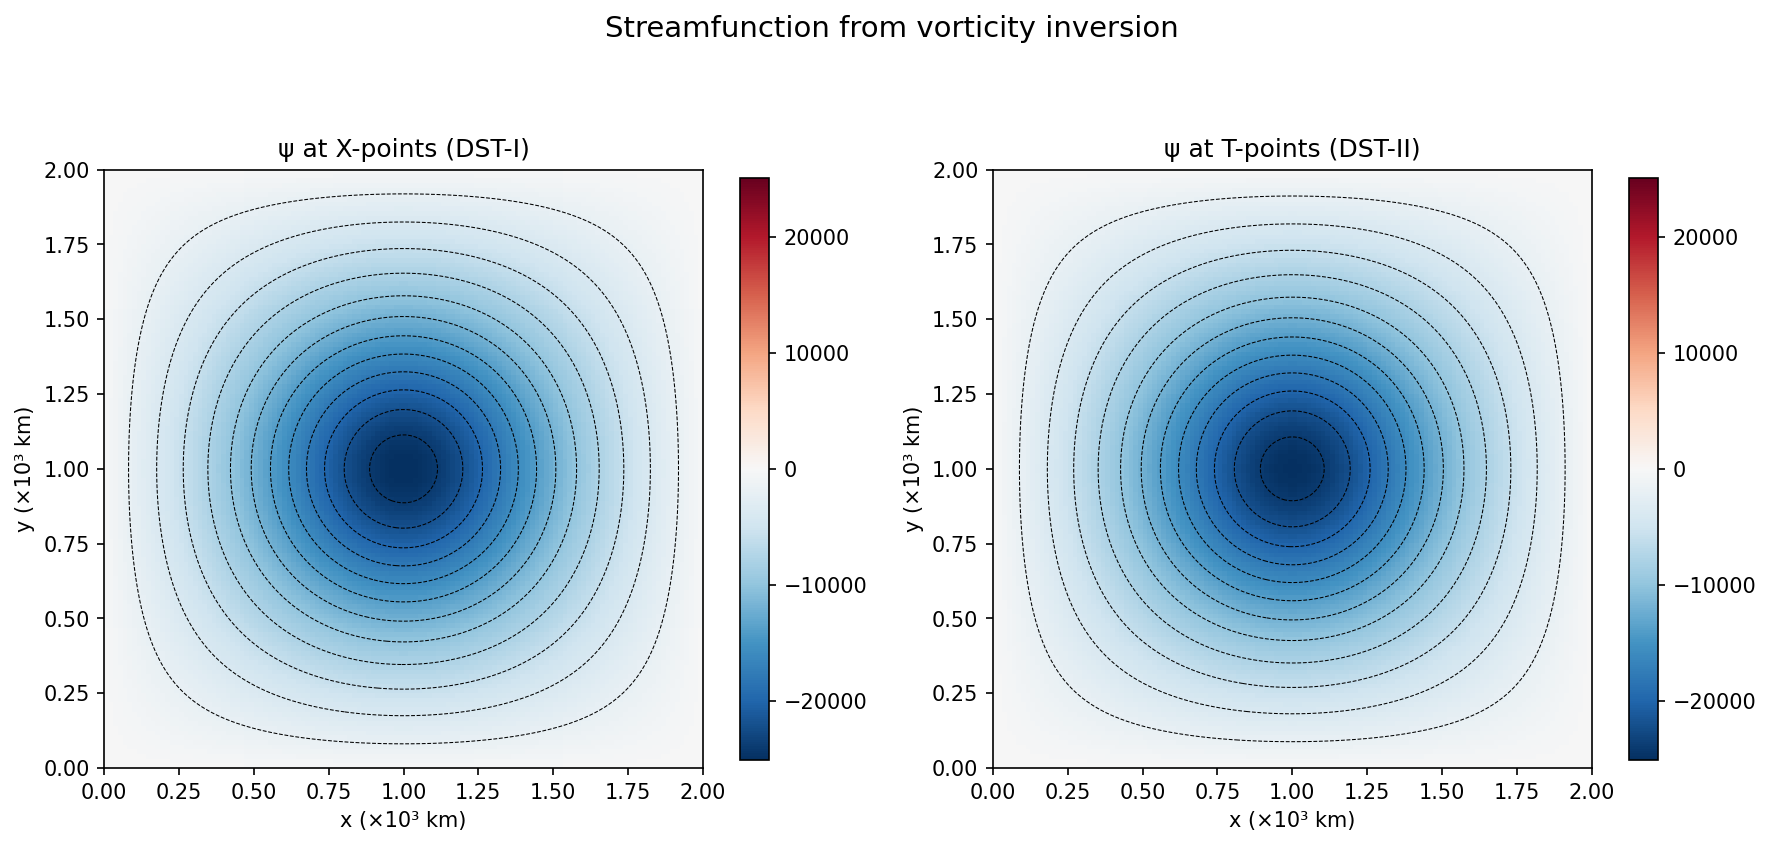
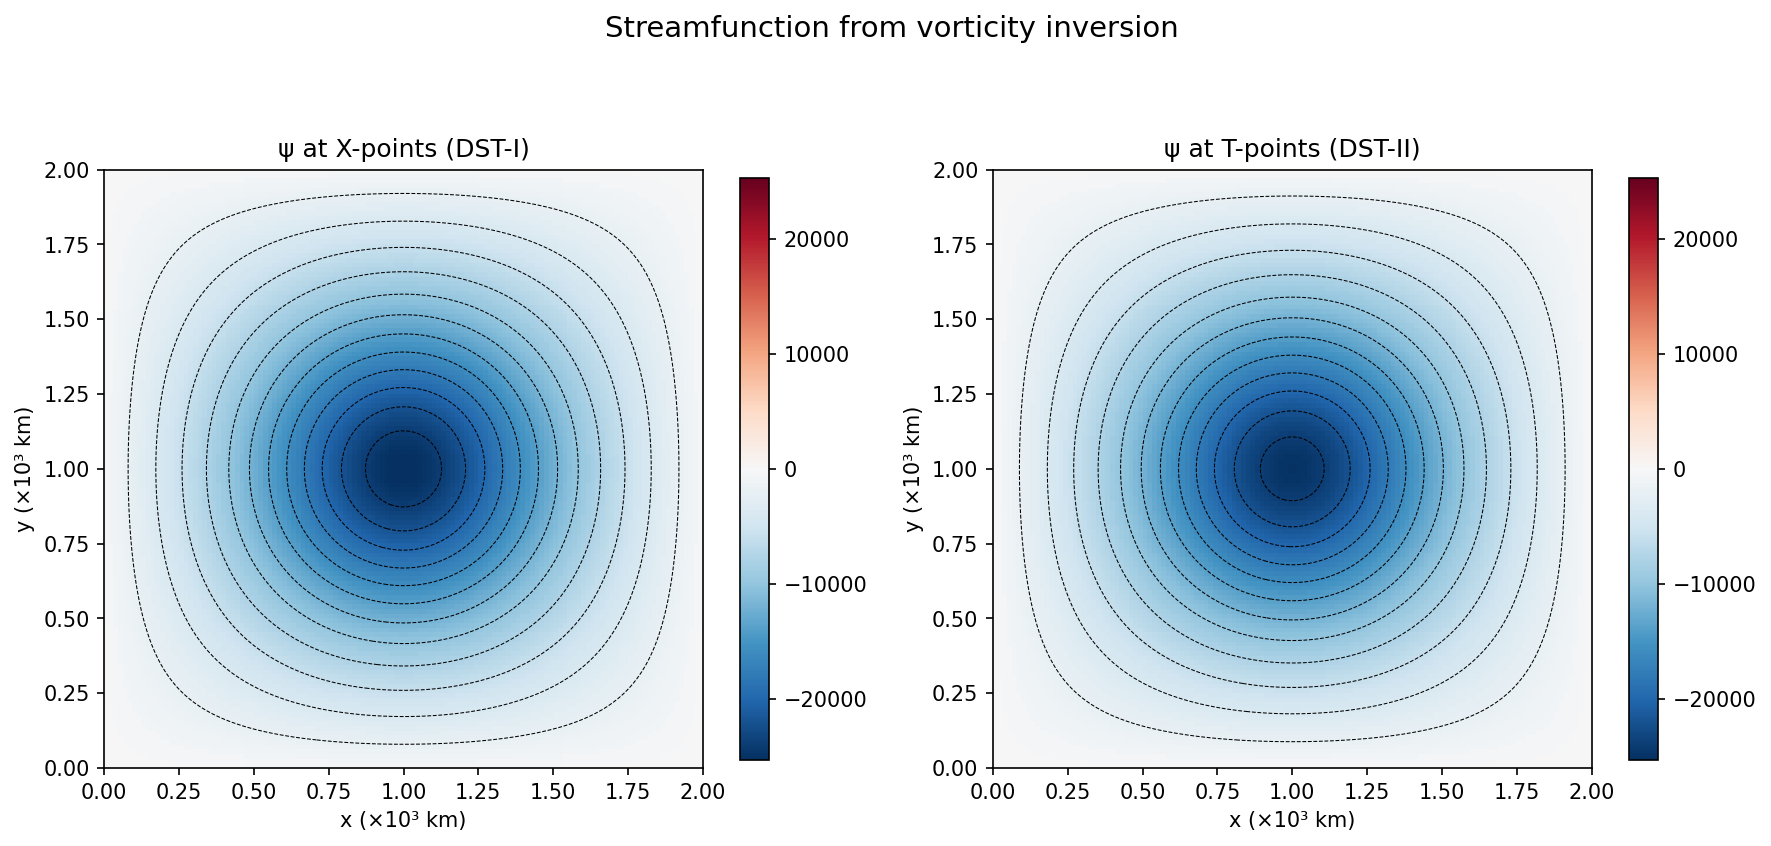
fix: address PR #184 review comments
- Move matplotlib.use("Agg") before pyplot import in all 8 notebooks
- Use correct X→U/X→V operators for X-point ψ velocity recovery
- Use grad_perp for T-point ψ velocity recovery
- Construct separate vertex-centred (DST-I) and cell-centred (DST-II)
  vorticity grids in streamfunction_inversion notebook

diff --git a/notebooks/streamfunction_inversion.py b/notebooks/streamfunction_inversion.py
@@ -53,10 +53,11 @@ from pathlib import Path
 import jax
 import jax.numpy as jnp
 import matplotlib
+
+matplotlib.use("Agg")
 import matplotlib.pyplot as plt
 import numpy as np
 
-matplotlib.use("Agg")
 jax.config.update("jax_enable_x64", True)
 
 import finitevolx as fvx
@@ -89,21 +90,42 @@ Gamma = 1e5       # circulation (m²/s)
 r0 = 300e3        # vortex radius (300 km)
 x0, y0 = Lx / 2, Ly / 2  # centre of domain
 
-# T-point coordinates (cell centres, interior only)
-i_idx = jnp.arange(nx)[None, :] + 0.5
-j_idx = jnp.arange(ny)[:, None] + 0.5
-x_T = i_idx * dx
-y_T = j_idx * dy
+# We construct ζ on TWO grids to match each solver's convention:
+#
+# - DST-I (X-point/vertex): grid points at i*dx/(N+1) for i=1..N
+#   (vertices, excluding the zero-boundary endpoints)
+# - DST-II (T-point/cell-centre): grid points at (i+0.5)*dx/N for i=0..N-1
+#   (cell centres, with boundary half a spacing outside)
+#
+# The Gaussian vortex is smooth enough that the difference is negligible,
+# but using the correct grid for each solver avoids a systematic O(dx) shift.
 
-r2 = (x_T - x0) ** 2 + (y_T - y0) ** 2
-zeta = (Gamma / (jnp.pi * r0**2)) * jnp.exp(-r2 / r0**2)
+# DST-I grid: vertex-centred (X-point convention)
+i_X = jnp.arange(1, nx + 1)[None, :]
+j_X = jnp.arange(1, ny + 1)[:, None]
+x_X = i_X * dx * nx / (nx + 1)  # points at i/(N+1) * Lx
+y_X = j_X * dy * ny / (ny + 1)
 
-print(f"max |ζ| = {float(jnp.abs(zeta).max()):.4e} s⁻¹")
+# DST-II grid: cell-centred (T-point convention)
+i_T = jnp.arange(nx)[None, :] + 0.5
+j_T = jnp.arange(ny)[:, None] + 0.5
+x_T = i_T * dx
+y_T = j_T * dy
+
+# Vorticity on each grid
+r2_X = (x_X - x0) ** 2 + (y_X - y0) ** 2
+zeta_X = (Gamma / (jnp.pi * r0**2)) * jnp.exp(-r2_X / r0**2)
+
+r2_T = (x_T - x0) ** 2 + (y_T - y0) ** 2
+zeta_T = (Gamma / (jnp.pi * r0**2)) * jnp.exp(-r2_T / r0**2)
+
+print(f"max |ζ_X| = {float(jnp.abs(zeta_X).max()):.4e} s⁻¹ (vertex grid)")
+print(f"max |ζ_T| = {float(jnp.abs(zeta_T).max()):.4e} s⁻¹ (cell-centre grid)")
 
 # %%
 fig, ax = plt.subplots(figsize=(6, 5.5))
 im = ax.imshow(
-    np.asarray(zeta), origin="lower", cmap="RdBu_r",
+    np.asarray(zeta_T), origin="lower", cmap="RdBu_r",
     extent=[0, Lx / 1e6, 0, Ly / 1e6],
 )
 ax.set_xlabel("x (×10³ km)")
@@ -118,10 +140,10 @@ plt.show()
 #
 # The finitevolX convenience wrapper `streamfunction_from_vorticity`
 # uses DST-I by default, which assumes $\psi$ lives at grid vertices
-# (X-points/corners).
+# (X-points/corners).  We pass `zeta_X` (vertex-centred grid).
 
 # %%
-psi_X = fvx.streamfunction_from_vorticity(zeta, dx, dy, bc="dst")
+psi_X = fvx.streamfunction_from_vorticity(zeta_X, dx, dy, bc="dst")
 
 print(f"ψ_X range: [{float(psi_X.min()):.2e}, {float(psi_X.max()):.2e}]")
 
@@ -132,7 +154,7 @@ print(f"ψ_X range: [{float(psi_X.min()):.2e}, {float(psi_X.max()):.2e}]")
 # the staggered Dirichlet solver directly.
 
 # %%
-psi_T = solve_poisson_dst2(zeta, dx, dy)
+psi_T = solve_poisson_dst2(zeta_T, dx, dy)
 
 print(f"ψ_T range: [{float(psi_T.min()):.2e}, {float(psi_T.max()):.2e}]")
 
@@ -169,18 +191,16 @@ plt.show()
 #
 # From each $\psi$ placement, we recover $(u, v)$ using C-grid differences.
 #
-# **From $\psi$ at X-points:**
-# - $u = -\partial\psi/\partial y$ at U-points (X→U: backward y-difference)
-# - $v = +\partial\psi/\partial x$ at V-points (X→V: backward x-difference)
+# **From $\psi$ at X-points (corners):**
+# - $u = -\partial\psi/\partial y$ at U-points via `diff_y_X_to_U` (natural X→U map)
+# - $v = +\partial\psi/\partial x$ at V-points via `diff_x_X_to_V` (natural X→V map)
 #
-# **From $\psi$ at T-points:**
-# - $u = -\partial\psi/\partial y$ at U-points (T→U needs y-interpolation + difference)
-# - $v = +\partial\psi/\partial x$ at V-points (T→V needs x-interpolation + difference)
-#
-# For simplicity, we use the full-grid Difference2D operator for both.
+# **From $\psi$ at T-points (cell centres):**
+# - `Difference2D.grad_perp(psi)` returns $(u, v)$ at (U, V) points directly,
+#   combining interpolation and differentiation in the correct staggered sense.
 
 # %%
-# Pad psi_X into full grid (with ghost ring)
+# Pad into full grid (with ghost ring)
 psi_X_full = jnp.zeros((ny + 2, nx + 2))
 psi_X_full = psi_X_full.at[1:-1, 1:-1].set(psi_X)
 
@@ -189,15 +209,12 @@ psi_T_full = psi_T_full.at[1:-1, 1:-1].set(psi_T)
 
 diff_op = fvx.Difference2D(grid)
 
-# From ψ at X-points: u = -dψ/dy, v = +dψ/dx
-# For X-point ψ, the natural differences are X→U and X→V
-# but Difference2D operates T→U and T→V, so this is approximate
-u_from_X = -diff_op.diff_y_T_to_V(psi_X_full)
-v_from_X = diff_op.diff_x_T_to_U(psi_X_full)
+# From ψ at X-points: use dedicated X→U and X→V operators
+u_from_X = -diff_op.diff_y_X_to_U(psi_X_full)
+v_from_X = diff_op.diff_x_X_to_V(psi_X_full)
 
-# From ψ at T-points: same T→U, T→V differences
-u_from_T = -diff_op.diff_y_T_to_V(psi_T_full)
-v_from_T = diff_op.diff_x_T_to_U(psi_T_full)
+# From ψ at T-points: use perpendicular gradient (u at U, v at V)
+u_from_T, v_from_T = diff_op.grad_perp(psi_T_full)
 
 # %%
 fig, axes = plt.subplots(2, 2, figsize=(12, 10))

diff --git a/notebooks/demo_solvers.py b/notebooks/demo_solvers.py
@@ -59,11 +59,12 @@ import time
 import jax
 import jax.numpy as jnp
 import matplotlib
+
+matplotlib.use("Agg")
 from matplotlib.patches import Patch
 import matplotlib.pyplot as plt
 import numpy as np
 
-matplotlib.use("Agg")
 jax.config.update("jax_enable_x64", True)
 
 import finitevolx as fvx

diff --git a/notebooks/demo_masks.py b/notebooks/demo_masks.py
@@ -53,10 +53,11 @@ from pathlib import Path
 
 import jax
 import matplotlib
+
+matplotlib.use("Agg")
 import matplotlib.pyplot as plt
 import numpy as np
 
-matplotlib.use("Agg")
 jax.config.update("jax_enable_x64", True)
 
 from finitevolx import ArakawaCGrid2D, ArakawaCGridMask

diff --git a/notebooks/qg_1p5_layer.py b/notebooks/qg_1p5_layer.py
@@ -66,10 +66,11 @@ from pathlib import Path
 import jax
 import jax.numpy as jnp
 import matplotlib
+
+matplotlib.use("Agg")
 import matplotlib.pyplot as plt
 import numpy as np
 
-matplotlib.use("Agg")
 jax.config.update("jax_enable_x64", True)
 
 import finitevolx as fvx

diff --git a/notebooks/shallow_water.py b/notebooks/shallow_water.py
@@ -64,10 +64,11 @@ from pathlib import Path
 import jax
 import jax.numpy as jnp
 import matplotlib
+
+matplotlib.use("Agg")
 import matplotlib.pyplot as plt
 import numpy as np
 
-matplotlib.use("Agg")
 jax.config.update("jax_enable_x64", True)
 
 import finitevolx as fvx

diff --git a/notebooks/swm_linear.py b/notebooks/swm_linear.py
@@ -59,10 +59,11 @@ from pathlib import Path
 import jax
 import jax.numpy as jnp
 import matplotlib
+
+matplotlib.use("Agg")
 import matplotlib.pyplot as plt
 import numpy as np
 
-matplotlib.use("Agg")
 jax.config.update("jax_enable_x64", True)
 
 import finitevolx as fvx

diff --git a/notebooks/helmholtz_screening.py b/notebooks/helmholtz_screening.py
@@ -41,10 +41,11 @@ from pathlib import Path
 import jax
 import jax.numpy as jnp
 import matplotlib
+
+matplotlib.use("Agg")
 import matplotlib.pyplot as plt
 import numpy as np
 
-matplotlib.use("Agg")
 jax.config.update("jax_enable_x64", True)
 
 import equinox as eqx

diff --git a/notebooks/pressure_poisson.py b/notebooks/pressure_poisson.py
@@ -44,10 +44,11 @@ from pathlib import Path
 import jax
 import jax.numpy as jnp
 import matplotlib
+
+matplotlib.use("Agg")
 import matplotlib.pyplot as plt
 import numpy as np
 
-matplotlib.use("Agg")
 jax.config.update("jax_enable_x64", True)
 
 import equinox as eqx
